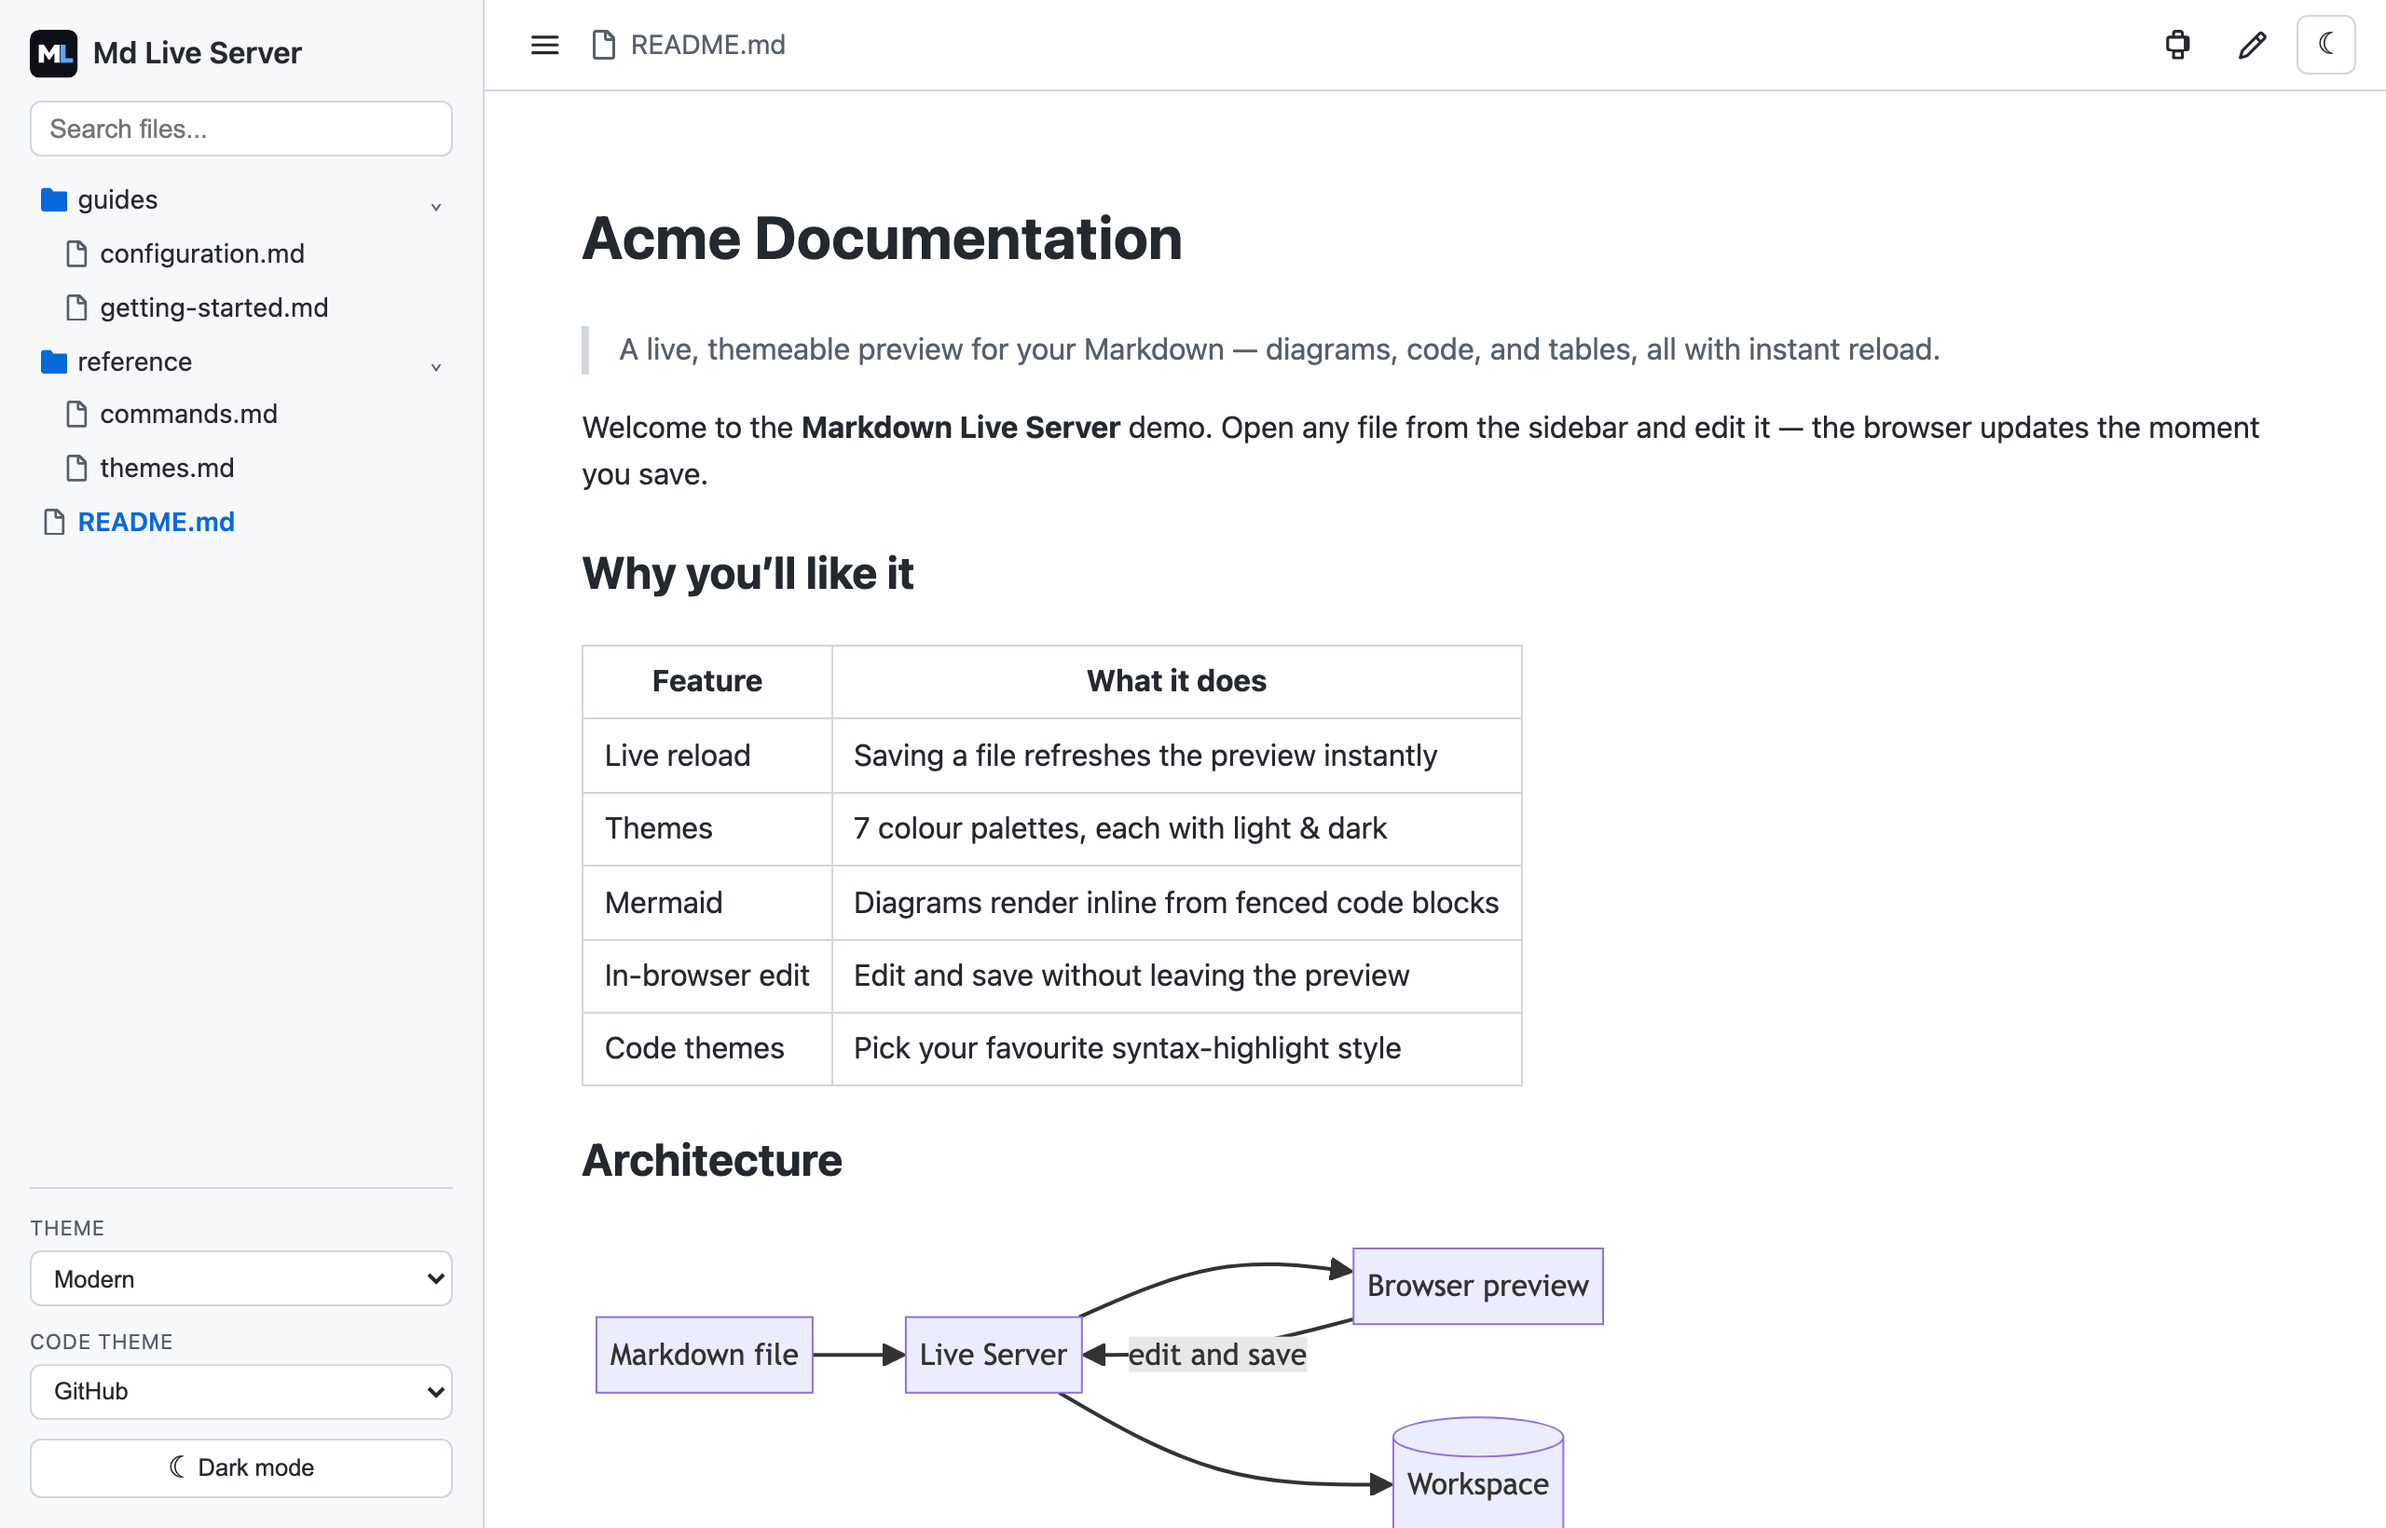
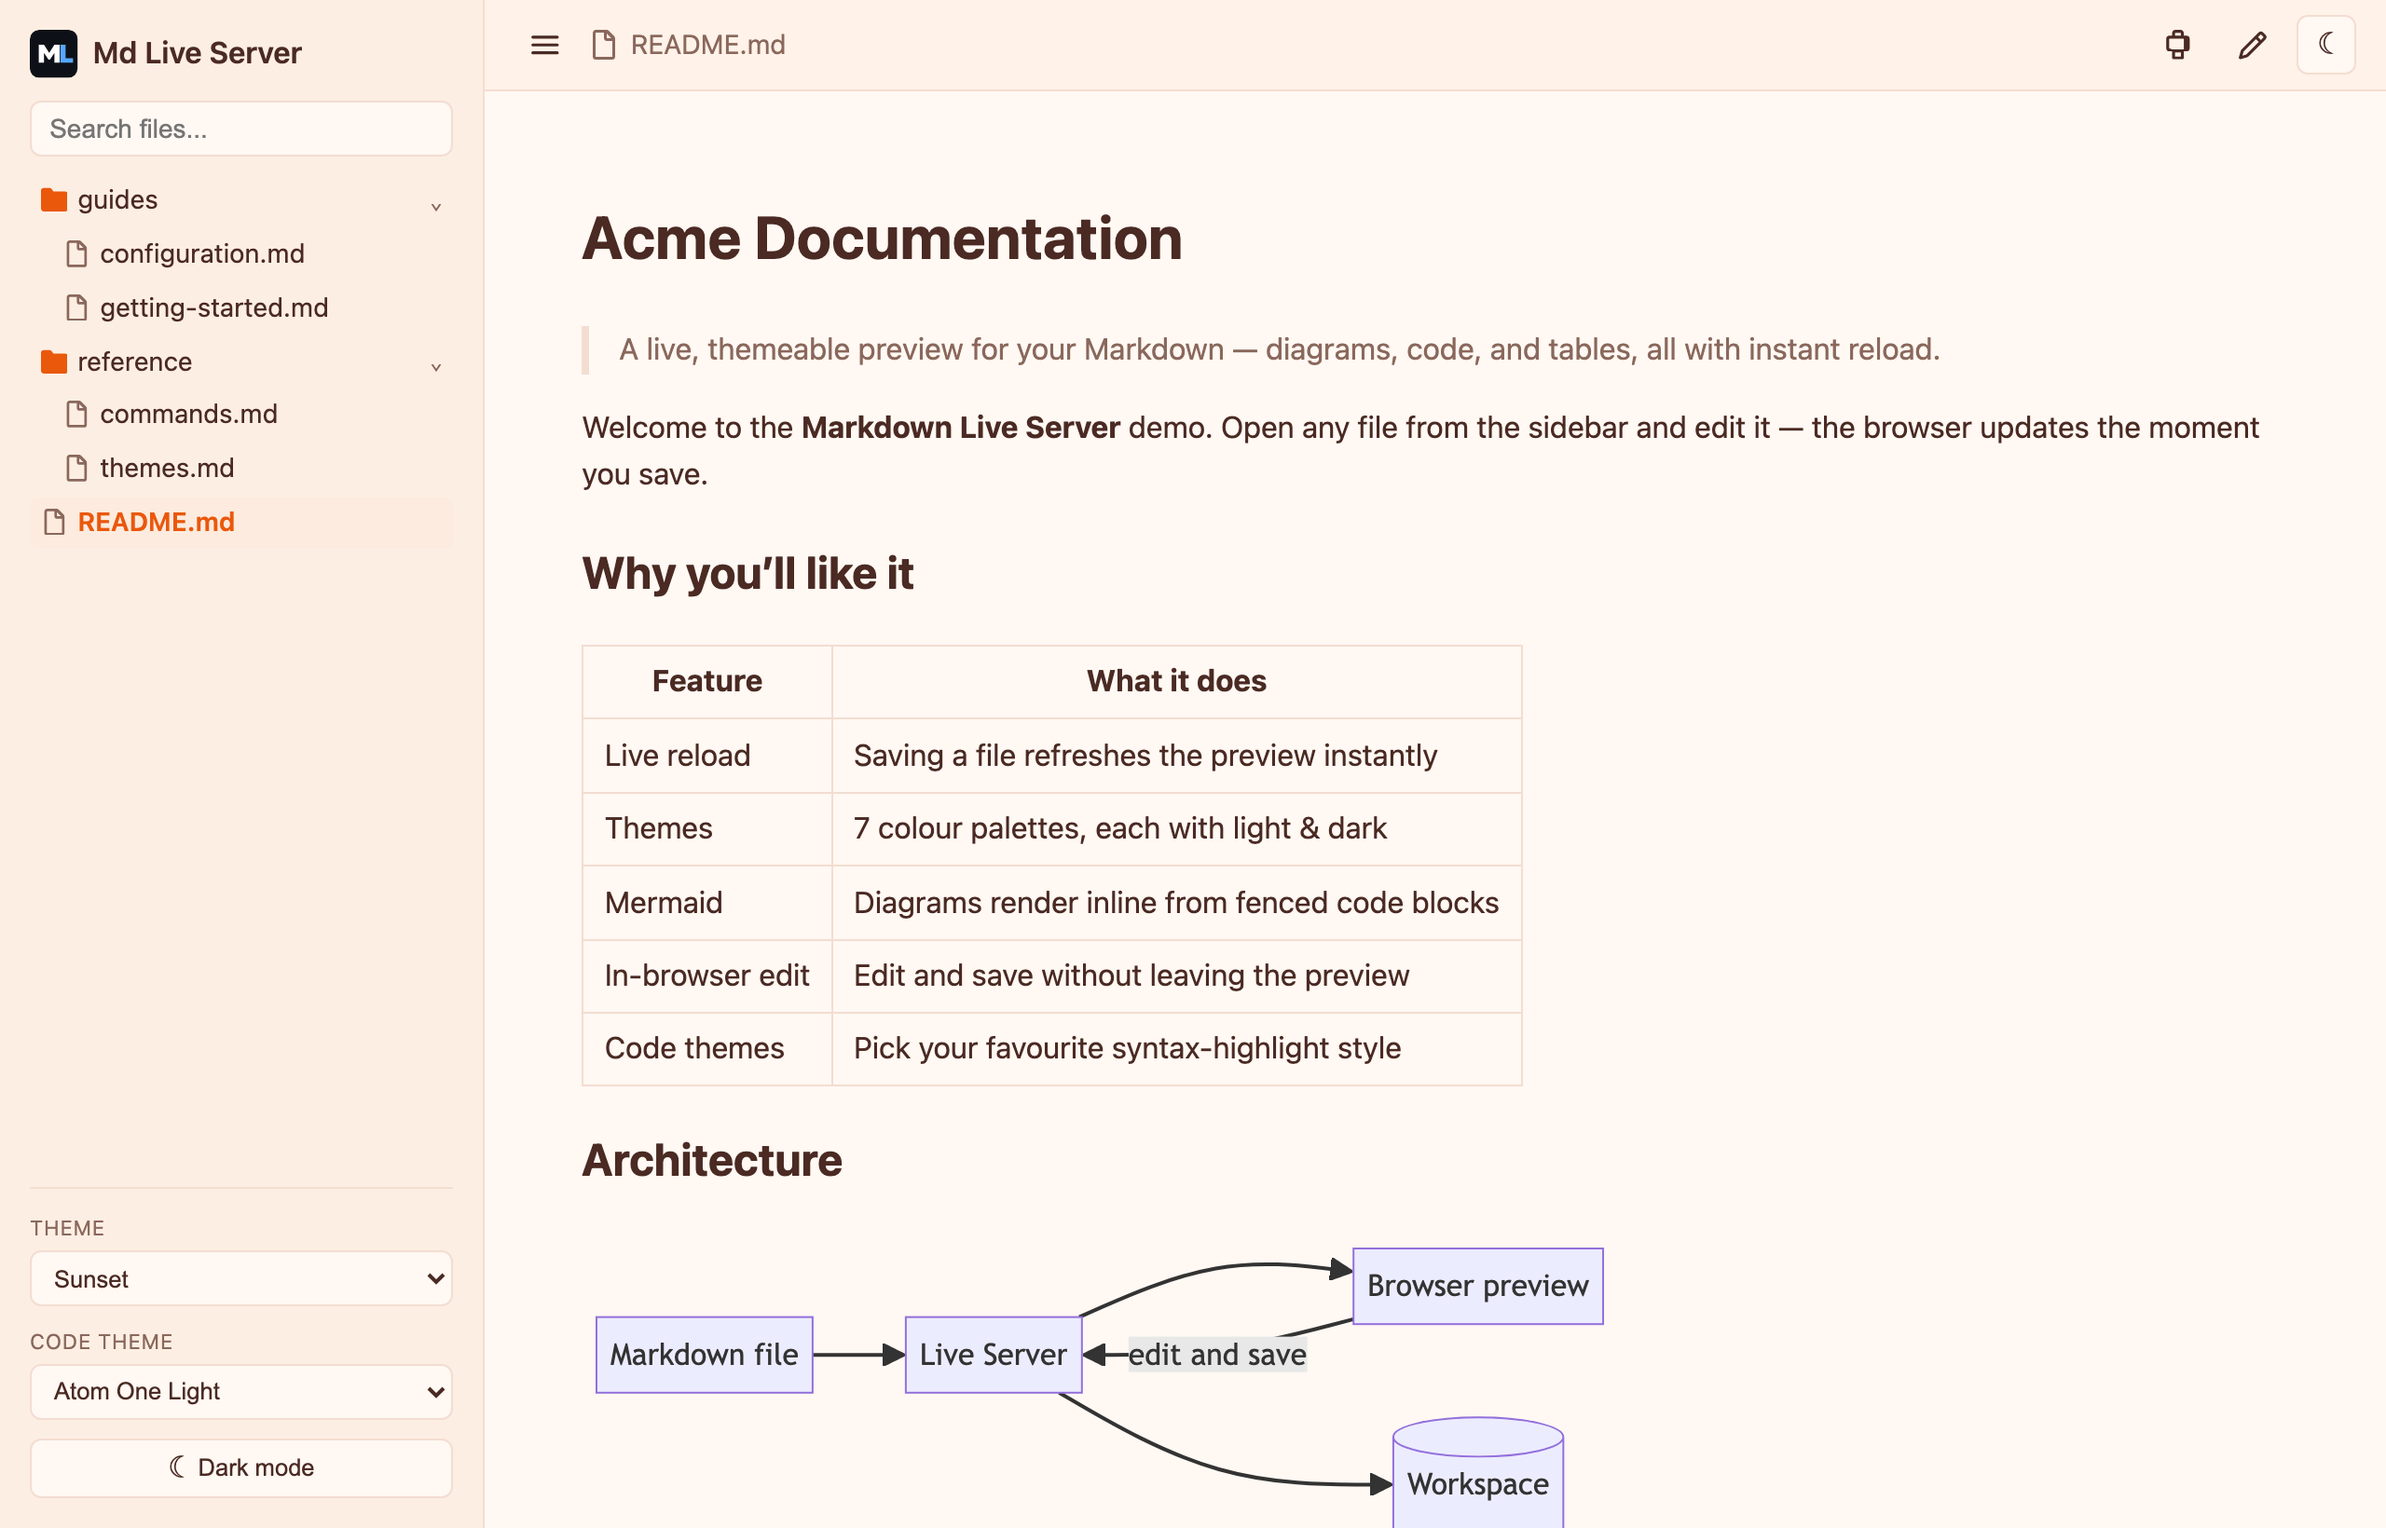
docs: replace root sample.md with sample/ folder and update README screenshots
Add sample/ folder with four focused demo files (overview, diagrams,
syntax highlighting, editor) matching the README sections. Update README
hero image and theme screenshot to use current filenames. Remove the
flat sample.md in favour of the structured sample/ directory.

diff --git a/sample/syntax.md b/sample/syntax.md
@@ -1,0 +1,90 @@
+# Syntax Highlighting
+
+Code blocks are syntax‑highlighted with your chosen code theme (GitHub, Dracula, Nord, Tokyo Night, and more).
+
+## TypeScript
+
+```typescript
+import * as vscode from 'vscode';
+import { MarkdownLiveServer } from './server';
+
+let liveServer: MarkdownLiveServer | undefined;
+
+export function activate(context: vscode.ExtensionContext) {
+  const start = vscode.commands.registerCommand(
+    'md-live-server.start',
+    async () => {
+      const port = vscode.workspace.getConfiguration('mdLiveServer').get<number>('port', 4400);
+      liveServer = new MarkdownLiveServer(rootPath, port);
+      await liveServer.start();
+    }
+  );
+  context.subscriptions.push(start);
+}
+```
+
+## JavaScript
+
+```javascript
+const ws = new WebSocket(`ws://127.0.0.1:${port}`);
+
+ws.addEventListener('message', ({ data }) => {
+  const msg = JSON.parse(data);
+  if (msg.type === 'reload') location.reload();
+  if (msg.type === 'update') renderMarkdown(msg.content);
+});
+
+ws.addEventListener('open', () => {
+  ws.send(JSON.stringify({ type: 'subscribe', path: location.pathname }));
+});
+```
+
+## Python
+
+```python
+import subprocess
+import webbrowser
+
+def start_preview(file_path: str, port: int = 4400) -> None:
+    """Open a Markdown file in Markdown Live Server."""
+    subprocess.Popen(["code", "--command", "md-live-server.start"])
+    webbrowser.open(f"http://localhost:{port}/{file_path}")
+```
+
+## Bash
+
+```bash
+# Install the extension
+code --install-extension tuld01061.md-live-server
+
+# Open a folder and start the server
+code my-docs/
+# Then: Command Palette → Markdown Live Server: Start
+```
+
+## JSON
+
+```json
+{
+  "mdLiveServer.port": 4400,
+  "mdLiveServer.siteMenu.enabled": true,
+  "mdLiveServer.siteMenu.exclude": [".*", "node_modules", "dist"]
+}
+```
+
+## CSS
+
+```css
+[data-theme="ocean"] {
+  --bg: #0f1923;
+  --text: #cdd9e5;
+  --accent: #4d9de0;
+  --sidebar-bg: #0a1117;
+}
+
+[data-theme="ocean"].light {
+  --bg: #f0f6fc;
+  --text: #1c2128;
+  --accent: #0969da;
+}
+```

diff --git a/README.md b/README.md
@@ -8,6 +8,8 @@
 
 [![VS Marketplace](https://vsmarketplacebadges.dev/version-short/tuld01061.md-live-server.png?label=Marketplace)](https://marketplace.visualstudio.com/items?itemName=tuld01061.md-live-server)
 [![Installs](https://vsmarketplacebadges.dev/installs-short/tuld01061.md-live-server.png)](https://marketplace.visualstudio.com/items?itemName=tuld01061.md-live-server)
+[![Open VSX](https://img.shields.io/open-vsx/v/tuld01061/md-live-server?label=Open%20VSX)](https://open-vsx.org/extension/tuld01061/md-live-server)
+[![Open VSX Downloads](https://img.shields.io/open-vsx/dt/tuld01061/md-live-server?label=VSX%20Installs&color=orange)](https://open-vsx.org/extension/tuld01061/md-live-server)
 [![License: MIT](https://img.shields.io/badge/License-MIT-blue.svg)](LICENSE)
 
 </div>
@@ -16,7 +18,7 @@
 
 Start a local server from VS Code and preview your Markdown in the browser. The page reloads the instant you save, Mermaid diagrams and code render beautifully, and you can switch themes or edit the file right in the page.
 
-![Overview](images/screenshots/theme-sunset.png)
+![Overview](images/screenshots/overview.png)
 
 ## ✨ Highlights
 
@@ -37,11 +39,11 @@ Pick a **Theme** and **Code Theme** from the sidebar, and toggle light/dark from
 <table>
   <tr>
     <td width="50%"><img src="images/screenshots/dark-ocean.png" alt="Ocean theme, dark mode" /></td>
-    <td width="50%"><img src="images/screenshots/overview.png" alt="Sunset theme, light mode" /></td>
+    <td width="50%"><img src="images/screenshots/modern-light.png" alt="Sunset theme, light mode" /></td>
   </tr>
   <tr>
     <td align="center"><em>Ocean · dark</em></td>
-    <td align="center"><em>Sunset · light</em></td>
+    <td align="center"><em>Modern · light</em></td>
   </tr>
 </table>
 

diff --git a/sample/overview.md b/sample/overview.md
@@ -1,0 +1,38 @@
+# Markdown Live Server
+
+**A fast, themeable live preview for Markdown — right from VS Code.**
+
+## Highlights
+
+- **⚡ Live reload** — save any file and the browser updates instantly.
+- **📊 Mermaid diagrams** — fenced `mermaid` blocks render inline.
+- **🌈 Syntax highlighting** — choose from many code themes (GitHub, Dracula, Nord, Tokyo Night, and more).
+- **🎨 7 themes × light/dark** — Aurora, Forest, Ghibli, Midnight, Modern, Ocean, Sunset.
+- **📝 In‑browser editing** — edit Markdown in a CodeMirror editor; saving writes back to disk.
+- **🗂 Project sidebar** — auto‑scans your workspace for Markdown/HTML files.
+- **🖨 Print** — one click to print just the document.
+- **📡 LAN sharing** — preview is reachable from other devices on your network.
+
+## Getting Started
+
+1. Install from the Marketplace.
+2. Open a folder or a Markdown file in VS Code.
+3. Command Palette → **Markdown Live Server: Start Markdown Live Server**.
+4. Your browser opens the preview — edit and save to see live reload in action.
+
+## Settings
+
+| Setting | Default | Description |
+| --- | --- | --- |
+| `mdLiveServer.port` | `4400` | Preferred server port. |
+| `mdLiveServer.siteMenu.enabled` | `true` | Show the project sidebar. |
+| `mdLiveServer.siteMenu.include` | `["*"]` | Glob patterns to include. |
+| `mdLiveServer.siteMenu.exclude` | `[".*", "node_modules"]` | Glob patterns to exclude. |
+
+## Commands
+
+| Command | Description |
+| --- | --- |
+| `md-live-server.start` | Start the server and open the browser. |
+| `md-live-server.stop` | Stop the current server. |
+| `md-live-server.toggle` | Start or stop the server. |

diff --git a/sample/editor.md b/sample/editor.md
@@ -1,0 +1,38 @@
+# In‑Browser Editor
+
+Click the **pencil icon** in the header bar to open a split CodeMirror editor alongside the live preview.
+
+## How it works
+
+- The left pane shows a **CodeMirror editor** with Markdown syntax highlighting.
+- The right pane shows the **live preview** — updates as you type.
+- **Save** (Ctrl/Cmd+S) writes the changes back to the file on disk.
+- Saving is restricted to `localhost` / `127.0.0.1` for safety.
+
+## Try editing below
+
+This paragraph is a great candidate for editing in the browser. Open the editor, change some text, and watch the preview update in real time.
+
+### A sample list to modify
+
+- Item one
+- Item two
+- Item three — try changing this!
+
+### A sample table to expand
+
+| Name | Role | Status |
+| --- | --- | --- |
+| Alice | Author | Active |
+| Bob | Reviewer | Pending |
+
+### A Mermaid diagram to tweak
+
+```mermaid
+flowchart LR
+  A[You] -->|edit| B[Editor]
+  B -->|preview| C[Browser]
+  B -->|save| D[Disk]
+```
+
+> **Tip:** The editor uses CodeMirror 6 with Markdown mode. Standard keyboard shortcuts work: Ctrl+Z to undo, Ctrl+A to select all.

diff --git a/sample/diagrams.md b/sample/diagrams.md
@@ -1,0 +1,52 @@
+# Mermaid Diagrams
+
+Fenced `mermaid` blocks render as interactive diagrams.
+
+## Flowchart
+
+```mermaid
+flowchart LR
+  A[Markdown] --> B[Live Server]
+  B --> C[Browser preview]
+  C -->|edit & save| B
+```
+
+## Sequence Diagram
+
+```mermaid
+sequenceDiagram
+  participant User
+  participant VSCode
+  participant Server
+  participant Browser
+
+  User->>VSCode: Save file
+  VSCode->>Server: File change event
+  Server->>Browser: WebSocket reload
+  Browser-->>User: Updated preview
+```
+
+## Architecture
+
+```mermaid
+flowchart TD
+  A[VS Code Extension] --> B[Express HTTP Server]
+  A --> C[WebSocket Server]
+  B --> D[File serving & Markdown rendering]
+  C --> E[Live reload broadcast]
+  D --> F[Browser]
+  E --> F
+```
+
+## Entity Relationship
+
+```mermaid
+erDiagram
+  WORKSPACE ||--o{ FILE : contains
+  FILE ||--o| PREVIEW : has
+  PREVIEW {
+    string theme
+    string codeTheme
+    bool darkMode
+  }
+```
